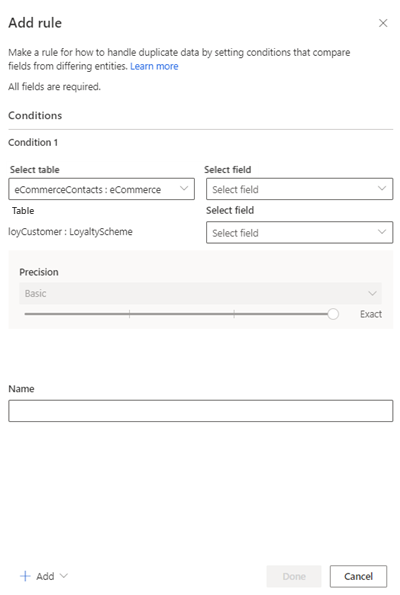
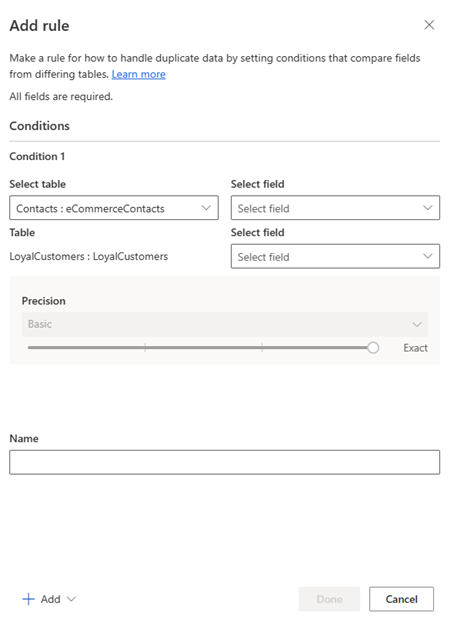
entity to table

diff --git a/ci-docs/export-azure-blob-storage.md b/ci-docs/export-azure-blob-storage.md
@@ -26,7 +26,7 @@ Store your Customer Insights data in a Blob storage or use it to transfer your d
 
 [!INCLUDE [export-connection-include](includes/export-connection-admn.md)]
 
-1. Go to **Settings** > **Connections**.
+1. Go to **Admin** > **Connections**.
 
 1. Select **Add connection** and choose **Azure Blob Storage**.
 
@@ -57,7 +57,7 @@ To configure this export, you must have [permission](export-destinations.md#set-
 
 1. Enter the folder name for the Blob storage.
 
-1. Select the box next to each of the tables you want to export to this destination.
+1. Select the box next to each of the entities you want to export to this destination.
 
 1. Select **Save**.
 
@@ -65,15 +65,15 @@ To configure this export, you must have [permission](export-destinations.md#set-
 
 Exported data is stored in the Blob Storage container you configured. The following folder paths are automatically created in your container:
 
-- For source tables and tables generated by the system:  
-  *%ContainerName%/CustomerInsights_%instanceID%/%ExportDestinationName%/%TableName%/%Year%/%Month%/%Day%/%HHMM%/%TableName%_%PartitionId%.csv*  
+- For source entities and entities generated by the system:  
+  *%ContainerName%/CustomerInsights_%instanceID%/%ExportDestinationName%/%EntityName%/%Year%/%Month%/%Day%/%HHMM%/%EntityName%_%PartitionId%.csv*  
 
   Example: Dynamics365CustomerInsights/CustomerInsights_abcd1234-4312-11f4-93dc-24f72f43e7d5/BlobExport/HighValueSegment/2020/08/24/1433/HighValueSegment_1.csv
   
   > [!TIP]
-  > Export of tables that contain a large amount of data can lead to multiple CSV files in the same folder for each export. Splitting exports happens for performance reasons to minimize the time it takes for an export to complete.
+  > Export of entities that contain a large amount of data can lead to multiple CSV files in the same folder for each export. Splitting exports happens for performance reasons to minimize the time it takes for an export to complete.
 
-- The model.json for the exported tables resides at the *%ExportDestinationName%* level.  
+- The model.json for the exported entities resides at the *%ExportDestinationName%* level.  
   
   Example: Dynamics365CustomerInsights/CustomerInsights_abcd1234-4312-11f4-93dc-24f72f43e7d5/BlobExport/model.json
 

diff --git a/ci-docs/data-unification-match-tables.md b/ci-docs/data-unification-match-tables.md
@@ -3,7 +3,6 @@ title: "Match conditions for data unification"
 description: "Match tables to create unified customer profiles."
 recommendations: false
 ms.date: 11/15/2022
-
 ms.topic: tutorial
 author: v-wendysmith
 ms.author: mukeshpo
